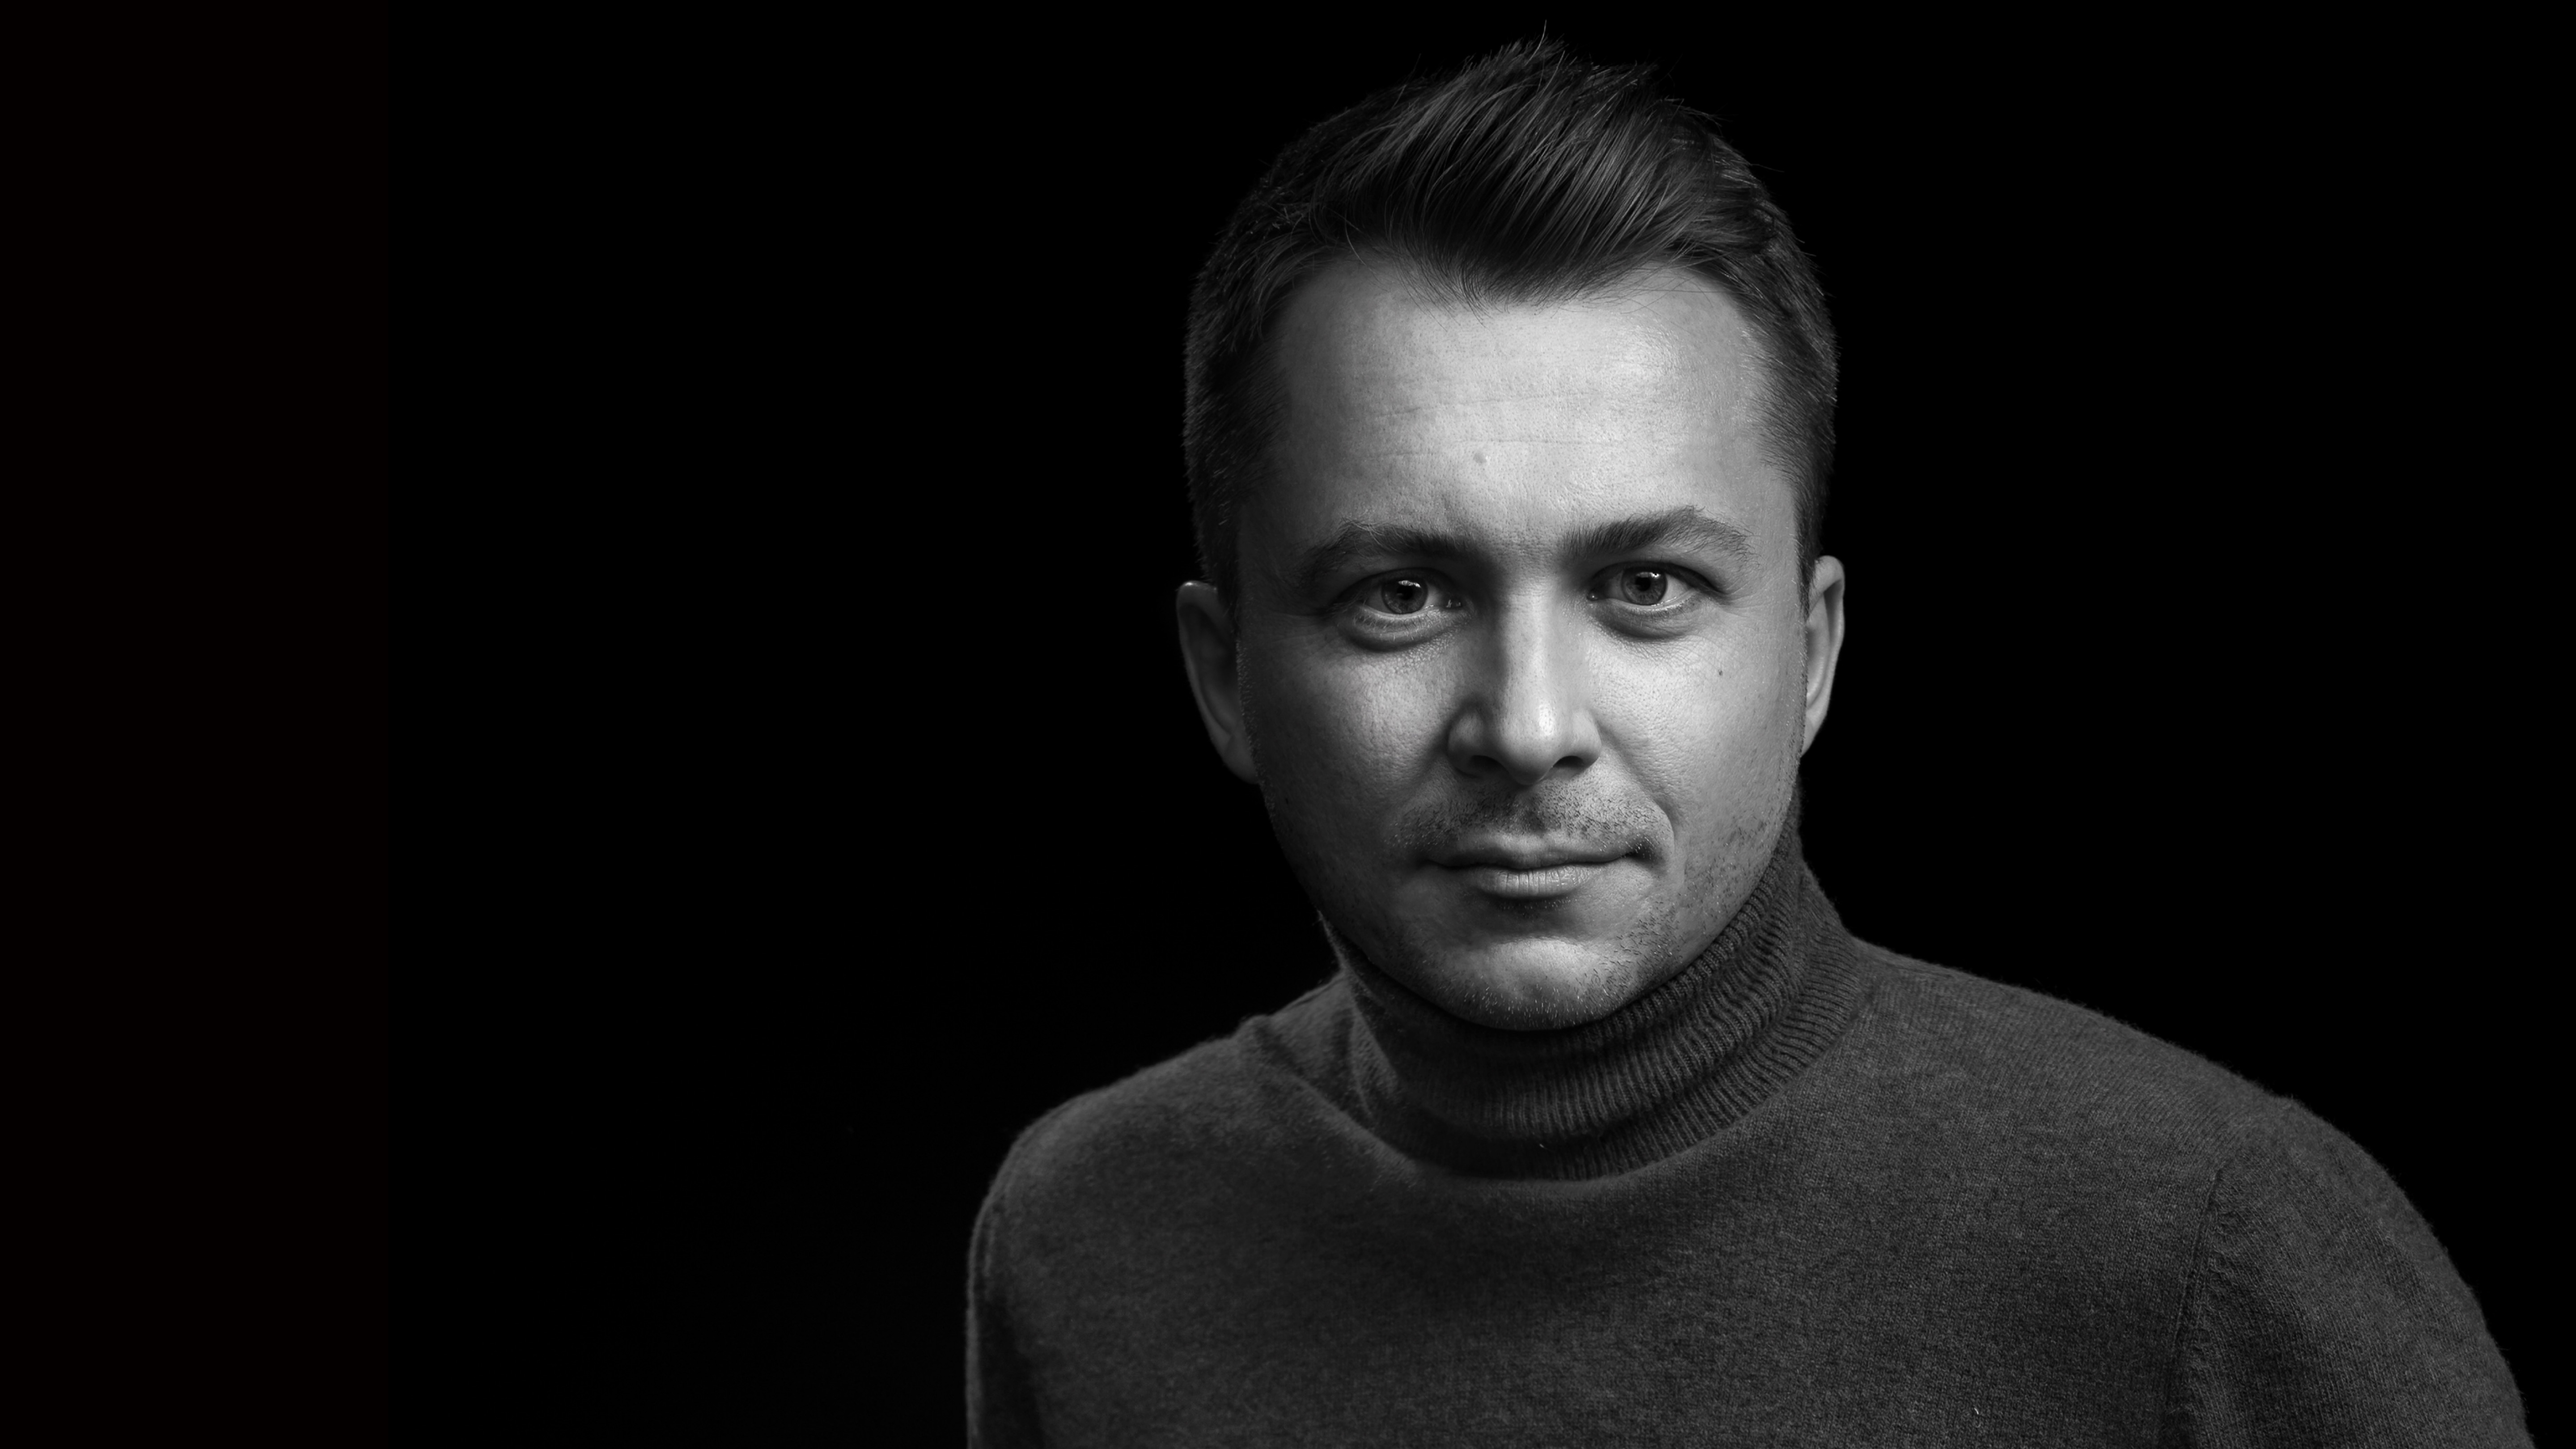
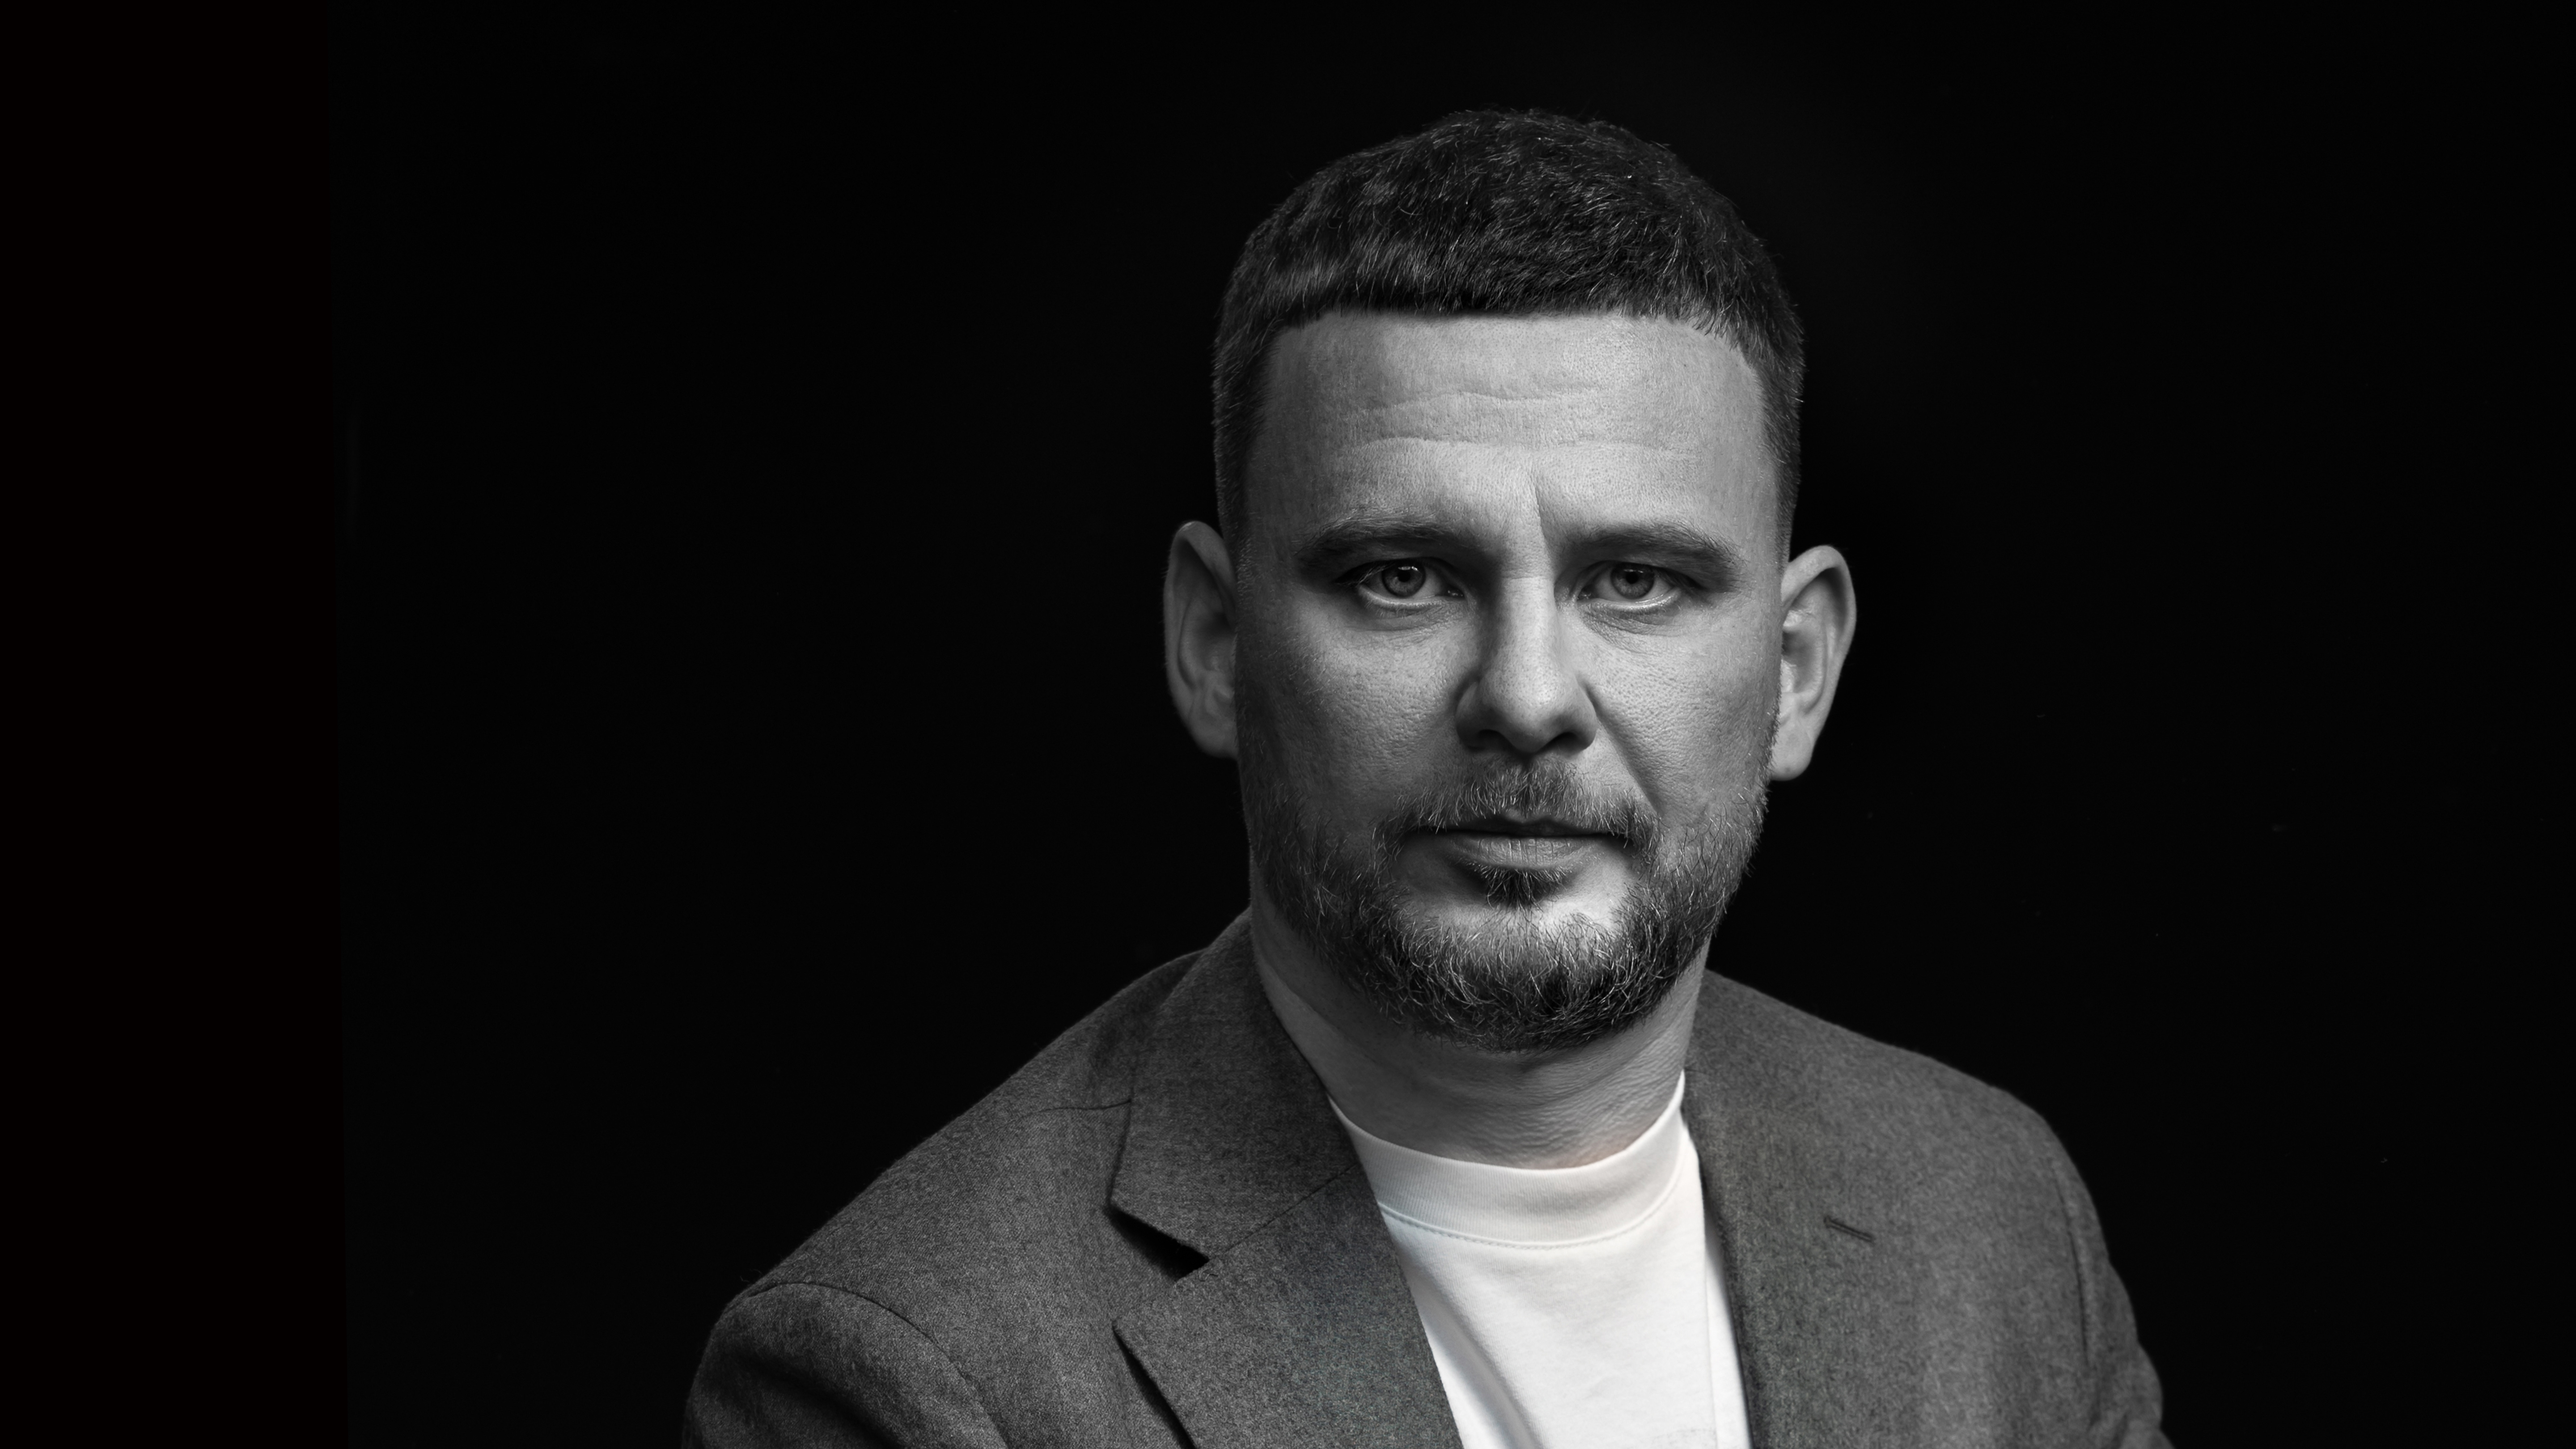
fixes

Changed region(s): [[0.25, 0.0312, 1.0, 1.0]]

diff --git a/client/components/pages/index/InFaces.vue b/client/components/pages/index/InFaces.vue
@@ -44,11 +44,11 @@ const prev = () => {
 };
 
 let items = [
-  {
-    fullName: "ОЛЕГ БЕЛОВ",
+{
+    fullName: "МИХАИЛ ПУШКАРЕВ",
     job: "ГЕНЕРАЛЬНЫЙ ДИРЕКТОР",
     description:
-      "Отвечает за выход компании на новые рынки сбыта и приток новых клиентов, развивает текущие каналы продаж. В сотрудниках особо ценит инициативность и желание развиваться.",
+      "Обеспечивает общее управление  компанией и организует эффективное взаимодействие всех структурных подразделений, а также отвечает за технические компетенции в компании. В ежедневной работе руководствуется принципами открытой коммуникации и командной работы.",
     img: "in_faces_1.jpg",
   },
   {
@@ -56,34 +56,20 @@ let items = [
     job: "КОММЕРЧЕСКИЙ ДИРЕКТОР",
     description:
       "Отвечает за прибыль компании, контролирует и развивает несколько направлений: маркетинг, продажи, развитие стратегических отношений с клиентами. В сотрудниках ценит ответственность и нацеленность на результат.",
-    img: "in_faces_1.jpg",
+    img: "in_faces_2.jpg",
   },
-  {
-    fullName: "МИХАИЛ ПУШКАРЕВ",
-    job: "ТЕХНИЧЕСКИЙ ДИРЕКТОР",
-    description:
-      "Обеспечивает общее управление  компанией и организует эффективное взаимодействие всех структурных подразделений, а также отвечает за технические компетенции в компании. В ежедневной работе руководствуется принципами открытой коммуникации и командной работы.",
-    img: "in_faces_1.jpg",
-  },
-  // {
-  //   fullName: "СВЕТЛАНА НИКИТИНА",
-  //   job: "ДИРЕКТОР ПО ПЕРСОНАЛУ",
-  //   description:
-  //     "отвечает за формирование команды, мотивацию и обучение персонала. Постоянно развивается и повышает свои профессиональные знания.",
-  //   img: "in_faces_1.jpg",
-  // },
   {
     fullName: "ВЛАДИСЛАВ ТОЛПЕКИН",
     job: "ДИРЕКТОР ПРОЕКТНОГО ОФИСА",
     description: "Контролирует и развивает несколько направлений: закупку, реализацию, логистику, сервисное/гарантийное обслуживание. В сотрудниках ценит многозадачность и стрессоустойчивость.",
-    img: "in_faces_2.jpg",
+    img: "in_faces_3.jpg",
   },
   {
     fullName: "ВЛАДИМИР ЗАЙЦЕВ",
     job: "ДИРЕКТОР ПО ВЭД",
     description:
       "отвечает за непрерывность цепочек поставок, осуществление международных финансовых операций. Имеет опыт регистрации торговых марок в России и за рубежом. Обладает компетенцией по работе с рынками СНГ, США, ЕС и Юго-Восточной Азии. В сотрудниках ценит профессионализм и уникальные знания.",
-    img: "in_faces_1.jpg",
+    img: "in_faces_4.jpg",
   },
 ];
 

diff --git a/client/pages/news.vue b/client/pages/news.vue
@@ -20,15 +20,6 @@ const news = [
     description:
       "“IT сегодня” - Новая программа на телеканале Про Бизнесс. В гости к Авторам проекта приходят представители IT-индустрии и делятся своим экспертным мнением, взглядом на проиходнящие изменения в отрасли, опытом внедрения цифровых проектов и обсуждают  перспективы развития отечественного технологического стека.",
   },
-  {
-    id: 2,
-    image: "/images/newsTest.png",
-    created_at: "05.04.2023",
-    to: "/author-project",
-    label: "Servity запускает авторский проект на телеканале Про Бизнесс",
-    collapsible: true,
-    description: `<p>Lorem ipsum dolor sit amet. Et voluptates quasi et dolorem dolores At quod voluptatum. Qui iusto sunt hic ducimus blanditiis ut laborum numquam? Et omnis alias est repellendus error qui voluptatum vero. </p><p>Aut iure numquam nam earum adipisci vel consectetur impedit non voluptatum maiores qui vero iusto vel magnam quisquam ea magnam ipsa. Aut voluptatibus similique qui odio eaque qui molestiae officia ut omnis voluptatem et harum galisum. Est animi sunt ab molestias quam ad praesentium odit aut iure dolorem! Hic explicabo dolores et nulla officiis aut voluptatem aliquam nam internos rerum et optio placeat qui dolorem officiis vel vero veritatis. </p><p>Et quaerat dolorem ad asperiores exercitationem qui laborum omnis qui soluta ipsam aut vitae officia vel neque repellendus. Qui minus soluta et iusto perspiciatis ad adipisci dicta. </p><p>Ut earum maiores sed officiis quidem eos impedit corrupti a galisum autem est magnam voluptatem. Nam ipsum repellat aut quia temporibus ut modi adipisci sit dolores sequi et molestiae provident a repellendus internos ea dolorem ipsum. Sed similique aspernatur et dolores quia est possimus ipsam ut laborum rerum et laborum aliquid. </p>`
-  },
 ];
 </script>
 
